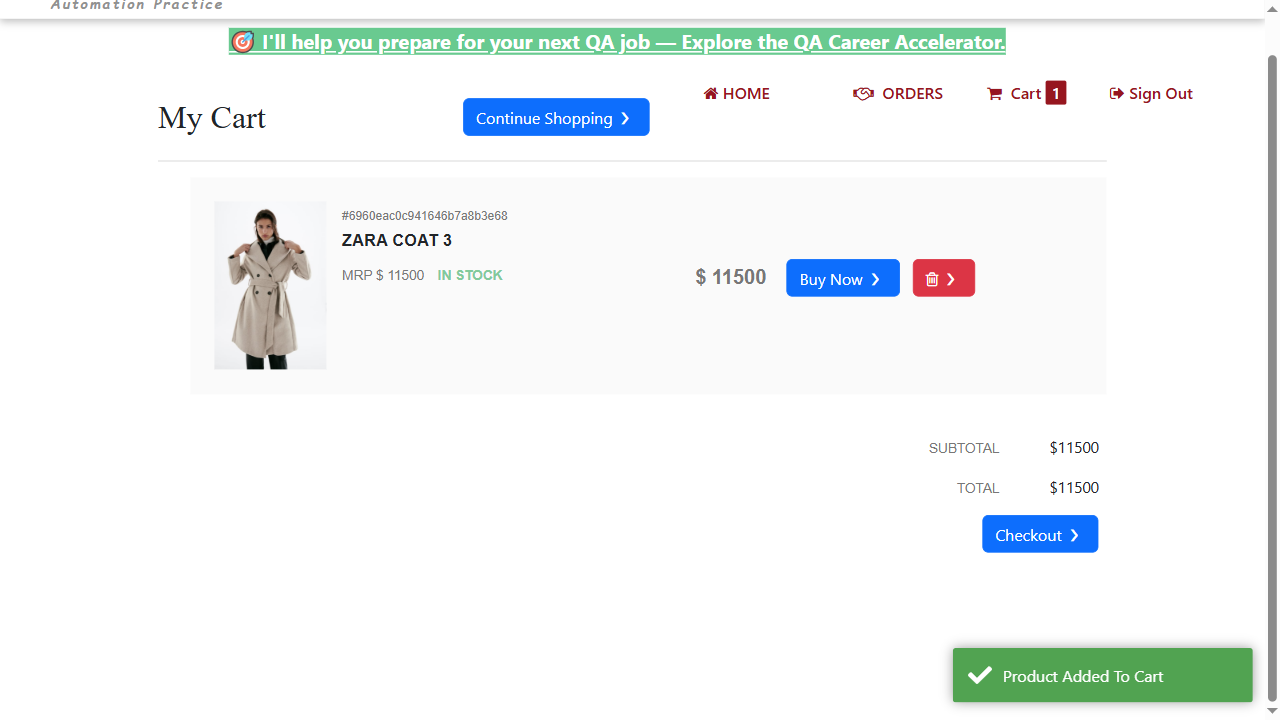
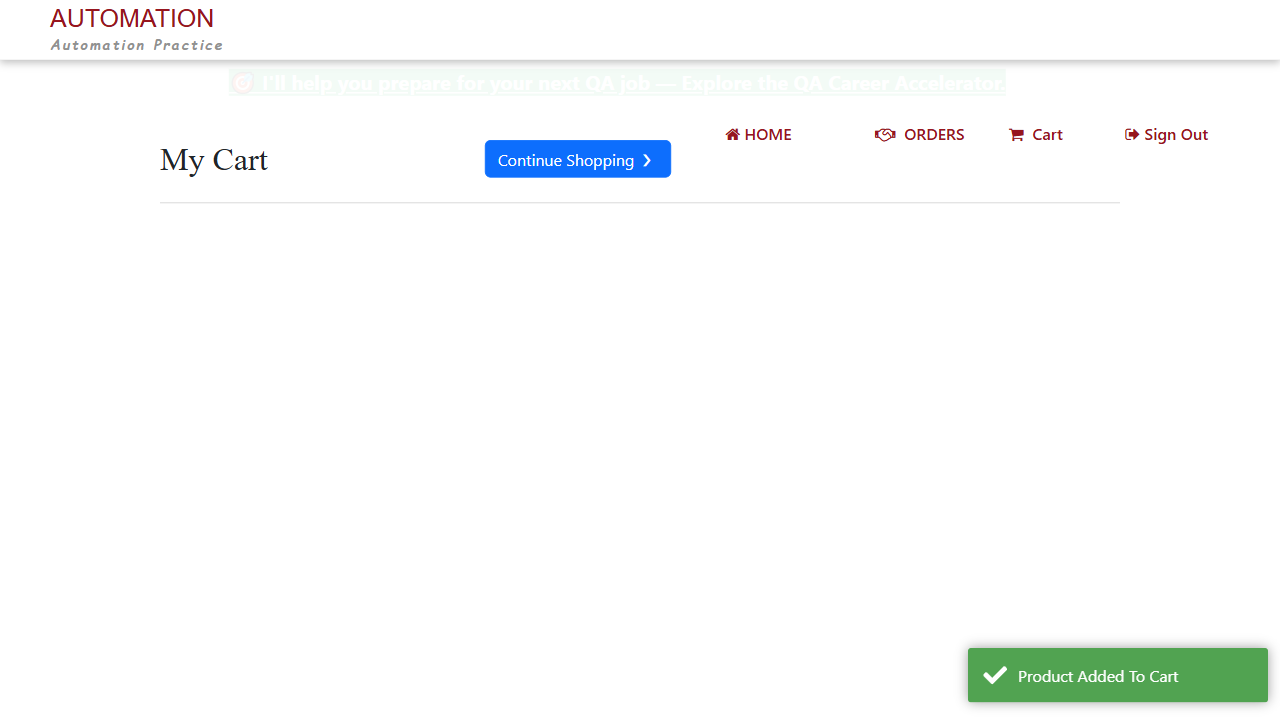
chore: enhance code after self review

diff --git a/tests/e2e.spec.ts b/tests/e2e.spec.ts
@@ -7,12 +7,12 @@ import { CheckoutPage } from "../pages/checkout.page";
 import { createRegistrationUser } from "../data/users";
 import { checkoutDetails } from "../data/checkout-data";
 
-const user = createRegistrationUser();
-const productName = 'ZARA COAT 3';
-
 test.describe('Automated Product Checkout E2E Flow', () => {
     test('completes product checkout', async ({ page }) => {
 
+        const user = createRegistrationUser();
+        const productName = 'ZARA COAT 3';
+        
         const loginPage = new LoginPage(page);
         const registrationPage = new RegistrationPage(page);
         const dashboardPage = new DashboardPage(page);
@@ -37,7 +37,7 @@ test.describe('Automated Product Checkout E2E Flow', () => {
         await test.step('add the product to the cart', async () => {
             await dashboardPage.addProductToCart(productName);
             await expect(dashboardPage.productAddedToast).toBeVisible();
-            await expect(await dashboardPage.getCartCount()).toBe('1');
+            await expect(dashboardPage.cartBadge).toHaveText('1');
             await dashboardPage.goToCart();
             await page.screenshot({ path: 'screenshots/02-added-to-cart.png' });
         });

diff --git a/pages/dashboard.page.ts b/pages/dashboard.page.ts
@@ -5,7 +5,7 @@ export class DashboardPage extends BasePage {
 
     private readonly productCards: Locator;
     private readonly cartButton: Locator;
-    private readonly cartBadge: Locator;
+    readonly cartBadge: Locator;
     readonly productAddedToast: Locator;
 
     constructor(page: Page) {
@@ -21,11 +21,7 @@ export class DashboardPage extends BasePage {
         await targetCard.getByRole('button', { name: 'Add To Cart' }).click();
     }
 
-    async getCartCount() {
-        return await this.cartBadge.innerText();
-    }
-
-    async goToCart() {
+    async goToCart(): Promise<void> {
         await Promise.all([
             this.page.waitForURL('**/client/#/dashboard/cart'),
             this.cartButton.click(),

diff --git a/pages/checkout.page.ts b/pages/checkout.page.ts
@@ -35,8 +35,9 @@ export class CheckoutPage extends BasePage {
         await this.cardNumberLocator.fill(details.cardNumber);
         await this.cvvLocator.fill(details.cvv);
         await this.cardNameLocator.fill(details.cardName);
-        await this.selectCountryLocator.pressSequentially(details.country);
+        await this.selectCountryLocator.pressSequentially(details.country, { delay: 100 });
         const countryOption = this.countryDropdownResultsLocator.getByRole("button", { name: details.country });
+        await countryOption.waitFor({ state: 'visible' });
         await countryOption.click();
     }
 
